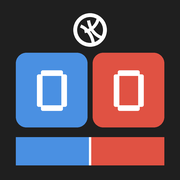
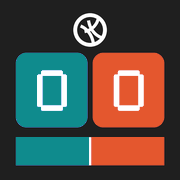
Nouvelle palette sarcelle et corail + correctifs d'affichage du score et des noms

diff --git a/sw.js b/sw.js
@@ -1,5 +1,5 @@
 // Garde l'app en mémoire sur le téléphone pour qu'elle marche sans internet.
-const CACHE = 'volleyscore-v1';
+const CACHE = 'volleyscore-v2';
 const FILES = ['./', './index.html', './manifest.json', './icon-180.png', './icon-192.png', './icon-512.png'];
 self.addEventListener('install', e => {
   e.waitUntil(caches.open(CACHE).then(c => c.addAll(FILES)).then(() => self.skipWaiting()));

diff --git a/index.html b/index.html
@@ -14,7 +14,7 @@
 <meta name="theme-color" content="#1f1f1f">
 <style>
 :root{
-  --home:#4A90E2; --away:#E05243;
+  --home:#0F8B8D; --away:#E4572E;
   --bg:#eceef1; --panel:#ffffff; --ink:#1c1c1e; --muted:#9a9aa0; --scrim:rgba(0,0,0,.55);
   box-sizing:border-box;
   padding-top:env(safe-area-inset-top,0px);
